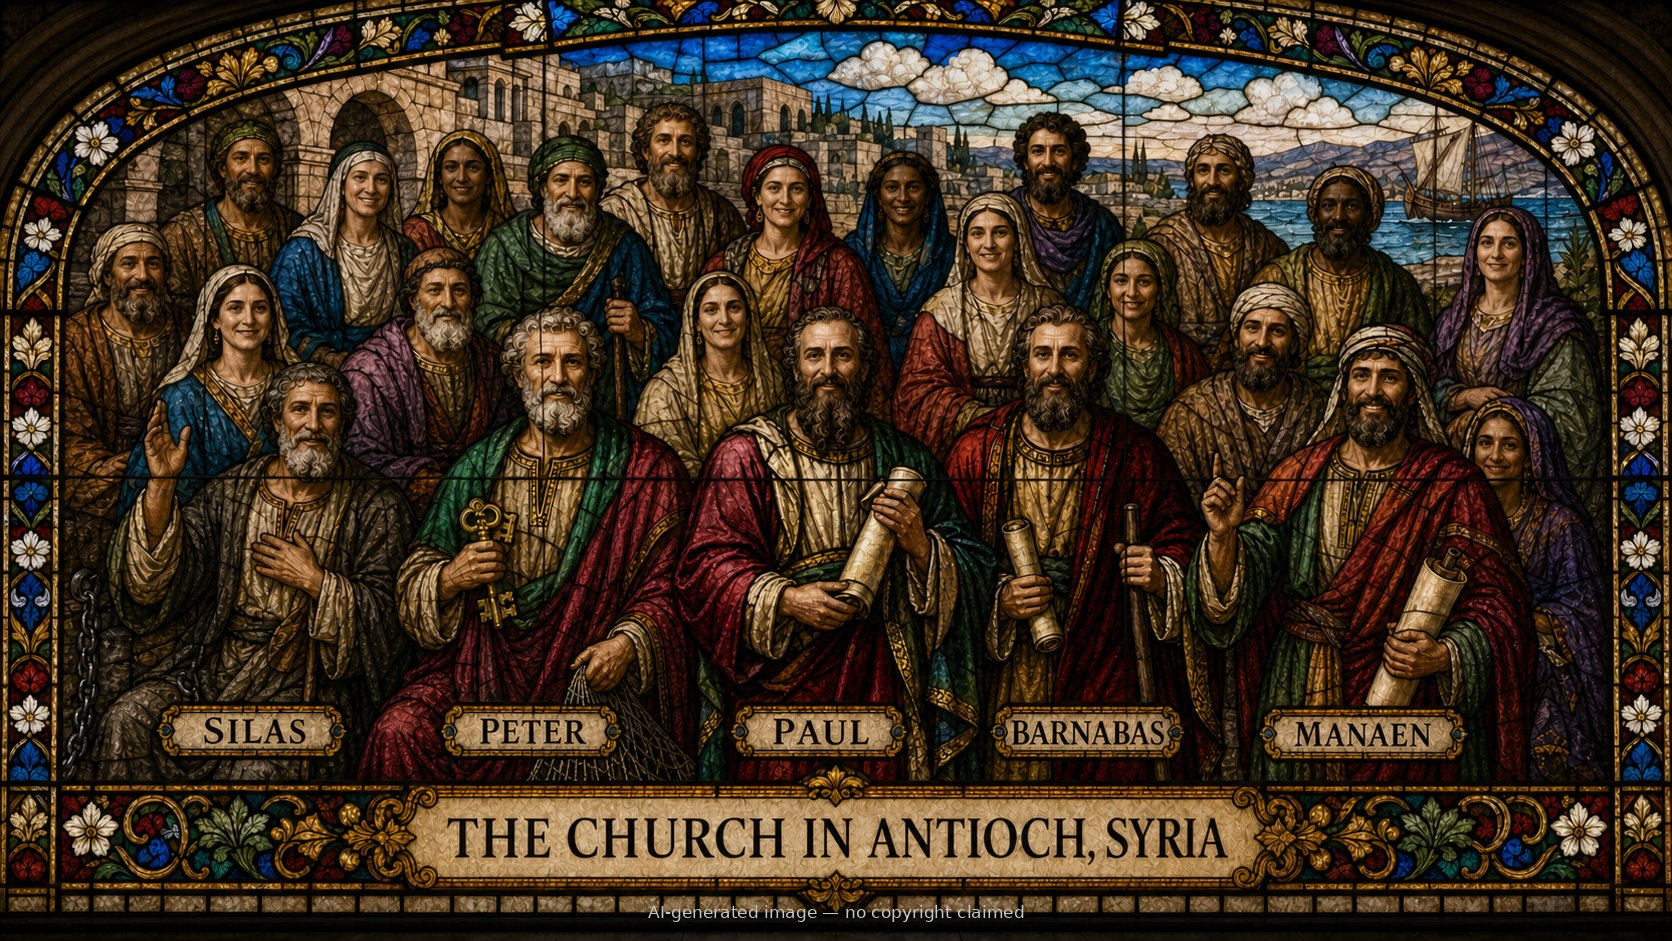
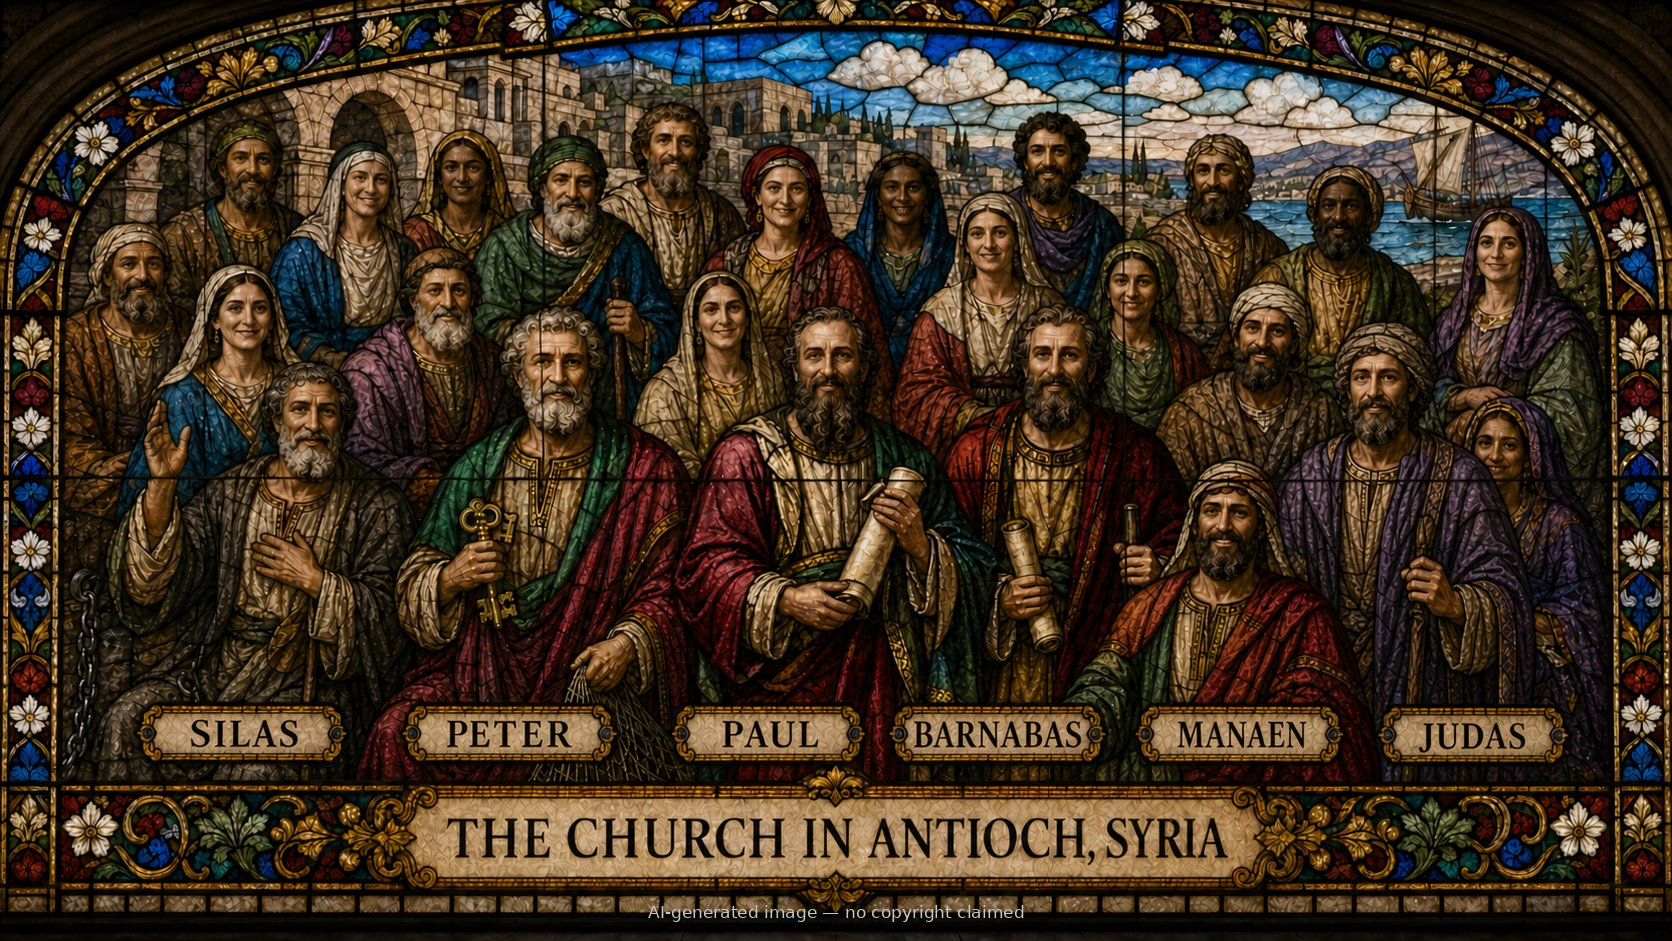
Show all full-tier members in large church portraits

diff --git a/images/portraits2/STAINED_GLASS_QUEUE.md b/images/portraits2/STAINED_GLASS_QUEUE.md
@@ -182,7 +182,7 @@ resemblance, but landscape and multi-figure:
 Use case: historical-scene, multi-figure group
 Asset type: 1920 × 1080 (16:9) landscape "group photo" website image
 Primary request: Create a convincingly authentic late-19th-century or early-20th-century Victorian Gothic Revival church stained-glass window depicting a representative congregation from the church in [CHURCH NAME] standing together in one group, the way a group photograph is composed.
-Named figures: Feature [SELECTED FULL-TIER MEMBER LIST — normally the five best-known full-tier people, or every available full-tier person when fewer than five are associated with the church]. Use each selected person's existing stained-glass portrait as a visual reference. Preserve the recognizable face, hair, clothing colors, and overall visual identity of that portrait while adapting the person naturally into the shared scene. Give these named figures clear but natural placement in the front or middle of the group; they need not all have equal prominence.
+Named figures: Feature [ALL FULL-TIER MEMBER LIST]. Use each selected person's existing stained-glass portrait as a visual reference where the generation tool's reference-input limit permits. Preserve the recognizable face, hair, clothing colors, and overall visual identity of referenced portraits while adapting each person naturally into the shared scene. Give these named figures clear placement in one or two orderly rows; they need not all have equal prominence.
 Name labels: Discreetly identify each selected named figure with their display name in small, restrained, legible antique serif lettering placed immediately beneath or beside that person. Treat these as subtle identifiers integrated into the stained glass, not large banners, modern captions, floating UI labels, or separate portrait frames. Do not label the additional congregants.
 Additional congregation: Add enough unnamed men and women in historically appropriate first-century clothing to make the gathering feel like a reasonable local church rather than a lineup of only the named figures. Make these additional unnamed congregants visually distinct rather than repeating or slightly modifying the same face: vary facial structure, apparent age, hair texture and style, complexion, build, clothing colors and details, and expression naturally while remaining historically and regionally appropriate. Apply this diversity instruction only to the additional unnamed congregants; do not alter a selected named figure away from their supplied portrait likeness in order to increase variation. These background congregants are representative, not claims that Scripture names additional individuals. Arrange the whole gathering in one or two gently staggered rows with faces visible and the selected named figures still easy to find. Compose the group as a welcoming formal portrait: most people should look directly forward toward the viewer, and a clear majority should have warm, natural, restrained smiles. Preserve a few varied or neutral expressions for authenticity, but avoid a crowd dominated by sideways glances, solemn faces, or exaggerated grins.
 Props and story details: It is not essential for anyone to carry an object connected with their story. Include a restrained Scripture-grounded identifying prop only when it improves recognition or composition; do not force one per person and do not invent extra-biblical details.
@@ -201,21 +201,14 @@ image generation, or the OpenAI Images API directly via the environment's
 path already tested), one call per church.
 
 Notes:
-- Select the normally five featured full-tier people by broad biblical and
-  cultural recognition, using the same editorial fame judgment as the portrait
-  queue. When fewer than five full-tier people are associated with a church,
-  feature all available full-tier people and use unnamed congregants for the
-  rest of the group. Name-only (`tier: "stub"`) people are not individually
-  portrayed or labeled.
-- **Large rosters no longer require literal coverage.** For churches such as
-  Ephesus and Rome, feature the best-known five full-tier people by default and
-  represent the wider congregation with unnamed faces. If the model loses the
-  likeness or label of a selected named person, that is a material failure worth
-  a retry with explicit row and position assignments.
+- Feature and label every associated full-tier person. Name-only (`tier:
+  "stub"`) people are not individually portrayed or labeled. For large rosters,
+  use two orderly featured rows and reduce the number of unnamed congregants as
+  needed to keep every name legible. A missing, duplicated, or misspelled name
+  is a material failure worth a targeted retry.
 - For churches with no named full-tier people, create a representative unnamed
   congregation and omit individual name labels. The church nameplate provides
   the identity of the scene.
-- Once a church's group photo is accepted, this is still a prototype
-  feature (per [[task_nt_church_group_photo]]) — do not wire `image2`-style
-  fields into `data/nt_churches.json` or the site generator until Andrew
-  reviews the actual output and confirms the feature should go live.
+- Accepted church group photos are live through the convention-based
+  `images/nt_churches-web/<church_id>.jpg` lookup; no `image2`-style field is
+  needed in `data/nt_churches.json`.
